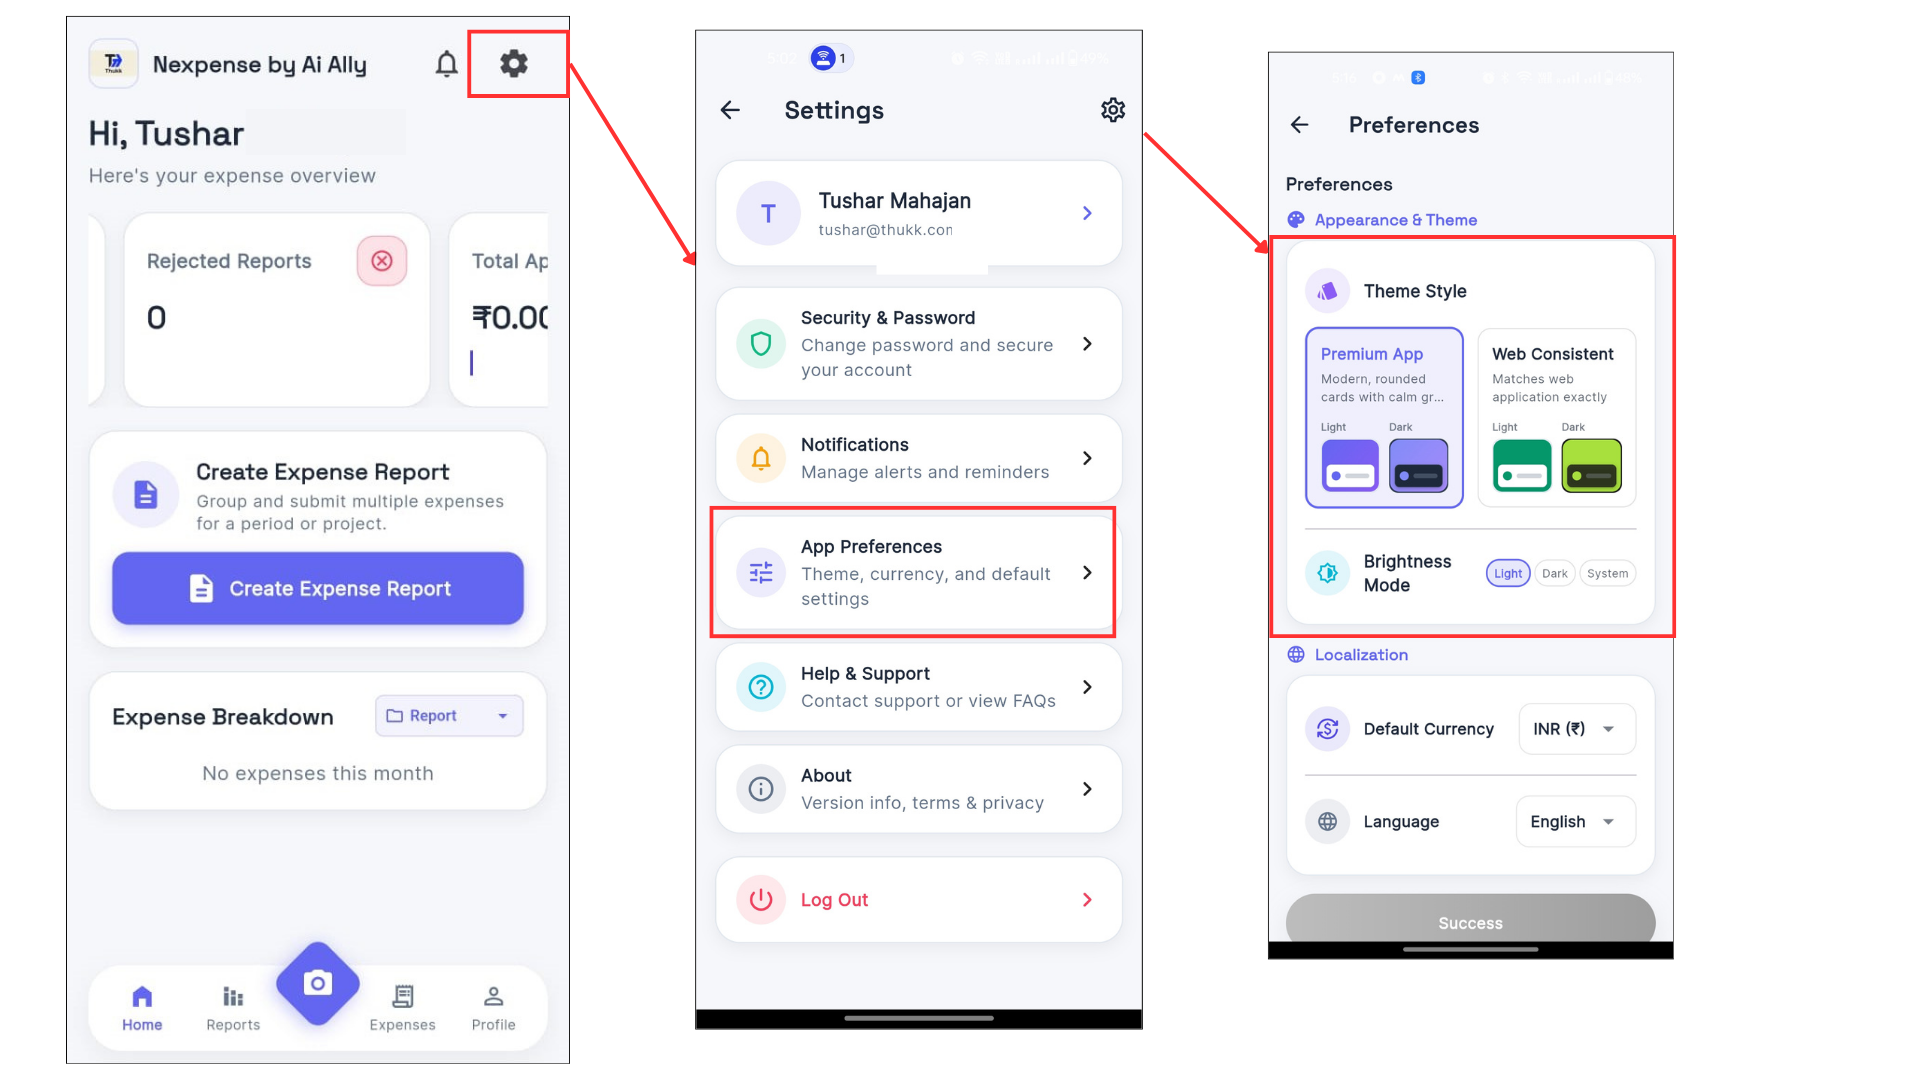
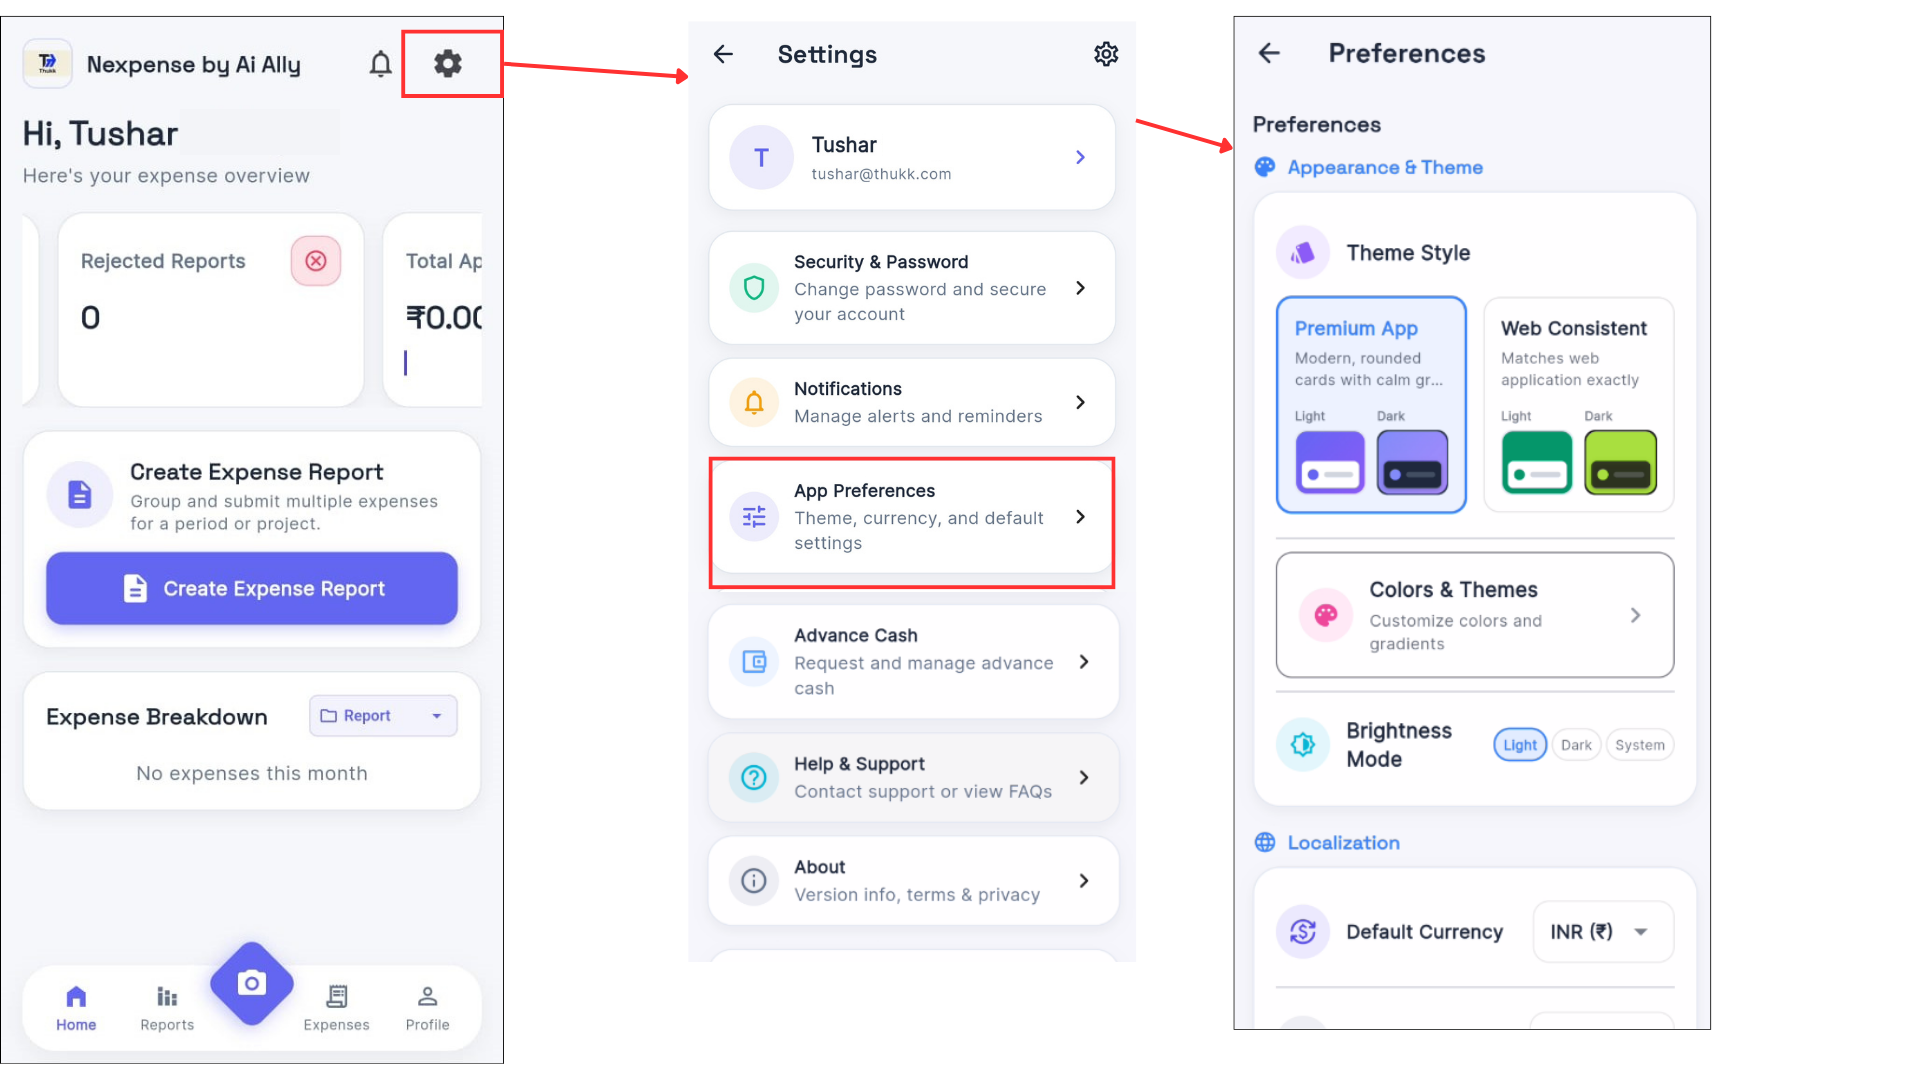
settings

diff --git a/Settings.md b/Settings.md
@@ -22,6 +22,39 @@ The Settings screen includes the following sections:
     
 - Tap to view or update personal details such as profile information (if supported).
     
+![[nexpense_dashboard_overview_settings_preferences_profle_v1.png]]
+
+Tap **Edit** in the top-right corner to enter edit mode.
+
+In edit mode:
+
+#### Editable Fields
+
+- **Phone Number**  
+    (This is typically user-editable unless restricted by admin)
+    
+
+#### Non-Editable Fields
+
+These details are locked and can only be updated by your organization admin:
+
+- Full Name
+    
+- Email Address
+    
+- Company
+    
+- Department
+    
+- Employee ID
+    
+- Role
+    
+
+Each locked field includes a small **info icon (i)** to indicate admin control.
+
+![[nexpense_dashboard_overview_settings_preferences_profle__edit_v1.png]]
+
 
 ---
 
@@ -33,6 +66,7 @@ The Settings screen includes the following sections:
     
 - Helps keep your account safe and secure.
     
+![[nexpense_dashboard_overview_settings_security_about_v1.png]]
 
 ---
 
@@ -40,8 +74,15 @@ The Settings screen includes the following sections:
 
 - Control all app-related alerts and reminders.
     
-- Customize what you want to be notified about (e.g., report status updates, reminders).
+- Customize what you want to be notified about .
+	- New Expense Added**Notifies you when a new expense is created.
+- Expense Approved / Rejected**
+	- Alerts you when an expense is approved or rejected by the admin.
+- Monthly Summary Report**
+	- Sends a monthly summary via email and in-app notifications.
     
+
+![[nexpense_dashboard_overview_settings_security_nootifications_v1.png]]
 
 ---
 
@@ -61,74 +102,156 @@ The Settings screen includes the following sections:
     
 ![[nexpense_dashboard_overview_settings_preferences_v1.png]]
 
-
->### **a) Theme Style**
+#### **a) Theme Style**
 You can choose between two interface styles:
->#### **• Premium Apps**
- >- Modern rounded UI
->- Soft gradients and clean design
->- Available in **Light** and **Dark** modes
->#### **• Web Consistent**
->- Matches the look and feel of the web dashboard
->- Ideal for users who work across both platforms 
->- Available in **Light** and **Dark** modes
-  >  
+##### **• Premium Apps**
+ - Modern rounded UI
+- Soft gradients and clean design
+- Available in **Light** and **Dark** modes
+##### **• Web Consistent**
+- Matches the look and feel of the web dashboard
+- Ideal for users who work across both platforms 
+- Available in **Light** and **Dark** modes
 This allows users to pick a UI style they are most comfortable with.
->
->### **b) Brightness Mode**
->
->Choose how the app handles brightness:
->
->- **Light** → Always uses light mode
->
->- **Dark** → Always uses dark mode
->- **System** → Automatically follows the phone’s system theme
-This helps users adapt the app to their preferred viewing comfort.
->
->### **c) Default Currency**
+
+#### **b) Colors & Themes**
+This section lets users **customize the color palette** used across the app.
+- Modify accent colors
+- Adjust gradients 
+- Personalize the feel of the interface  
+- Works in both theme styles
+- Ideal for branding or comfort-based customization
+This feature is especially useful for users who prefer a specific visual aesthetic.
+	#### **1. Theme Style**
+	At the top of the Colors & Themes screen, users can select the theme style they want to customize:
+		**• Premium App**
+			- Soft, rounded modern UI
+			- Gradients and richer color transitions		    
+			- Light & Dark mode options
+		**• Web Consistent**
+			- Matches the Nexpense web application's design
+			- Cleaner, sharper UI
+			- Available in Light & Dark modes
+This selection determines how the chosen colors will be applied across the app.
+	
+	#### **2. Default Colors**
+The app provides a set of pre-designed color presets under **Default Colors**, grouped into two categories.
+		**a) Solid Colors**
+		These are single-color options used for:
+		- Buttons
+		- Highlights
+		- Navigation accent
+		- Key UI elements
+		Available solid colors include:	
+		- Indigo    
+		- Purple	    
+		- Green    
+		- Cyan
+	Users can tap any color to apply it instantly.
+	<br>
+		**b) Gradient Colors**
+	Gradient colors offer a more visually dynamic experience.
+	Available options include:
+		- Blue gradient  
+		- Green gradient   
+		- Orange-to-red gradient  
+		- Indigo-to-cyan gradient
+	Selecting a gradient theme applies it across supported UI components, giving a premium feel.
+	#### **3. Custom Colors**
+	This section allows users to craft their own unique color themes.
+	
+![[nexpense_dashboard_overview_settings_preferences_theme_colorsv1.png]]
+#### **c) Brightness Mode**
+Choose how the app handles brightness:
+	- **Light** → Always uses light mode
+	- **Dark** → Always uses dark mode
+	- **System** → Automatically follows the phone’s system theme
+	This helps users adapt the app to their preferred viewing comfort.
+
+#### **d) Default Currency**
 Choose the primary currency used across the app.
 Examples:
->- INR (₹)
->- USD ($)
->- EUR (€)
->- GBP (£)
+- INR (₹)
+- USD ($)
+- EUR (€)
+- GBP (£)
  The selected currency is applied to:
->- Expenses 
->- Reports
->- Approvals
->- Exported data
->### **b) Language**
-Select your preferred language for the app interface.
->### **d) Brightness Mode**
-Choose how the app handles brightness:
->- **Light** → Always uses light mode 
->- **Dark** → Always uses dark mode
->- **System** → Automatically follows the phone’s system theme
-This helps users adapt the app to their preferred viewing comfort.
+- Expenses 
+- Reports
+- Approvals
+- Exported data
+#### **e) Language**
+Choose the language used for:
+
+- Menus
+    
+- Buttons
+    
+- Labels
+    
+- Notifications
+    
+
+The current screenshot shows **English**, but this field will list all supported languages.
 
 ---
+### **6. Advance Cash**
+**1. Create Advance Request**
+To request advance cash, fill in the following fields:
+- **Amount** – Enter the advance amount you need.
+- **Currency** – Choose the preferred currency.   
+- **Project (Optional)** – Select a project if the advance is for specific work.
+- **Cost Centre (Optional)** – Link the request to a cost centre if required.  
 
-### **5. Help & Support**
+Once completed, tap **Create** to submit the request.
+
+**2. My Advances**
+Below the form, you can view all your previously requested advances.
+This section will show:
+- Pending advances 
+- Approved advances 
+- Rejected advances
+If you haven’t requested any yet, it will display:  
+**“No advances yet.”**
+
+![[nexpense_dashboard_overview_settings_security_advance_cash_v1.png]]
+
+---
+### **6. Help & Support**
 
 - Contact the support team.
     
 - Access FAQs and troubleshooting resources.
     
 - Useful when you face issues or need assistance.
-    
+
+![[nexpense_dashboard_overview_settings_security_help&support_v1.png]]
 
 ---
 
-### **6. About**
-
-- Shows app version details.
+### **7. About**
+**App Details**
+- **App Name:** Expense Tracker	
+- **Version:** v1.0.0 (Build 1)
+- **Company:** Ai Ally Pvt. Ltd.
+	    
+**Contact**
+- **Email:** support@expense-tracker.app
+- **Phone:** +91 98765 43210
     
-- View legal policies, including Terms & Conditions and Privacy Policy.
+**Legal**
+- **Terms of Service**
+- **Privacy Policy**
+- **Open Source Licenses**
     
+**Description**
+A short overview of the app explaining it helps scan receipts, categorize expenses, and manage petty cash efficiently.
+    
+![[nexpense_dashboard_overview_settings_security_about_v1.png]]
 
 ---
 
-### **7. Log Out**
+### **8. Log Out**
 
 - Safely sign out of your account.
     
